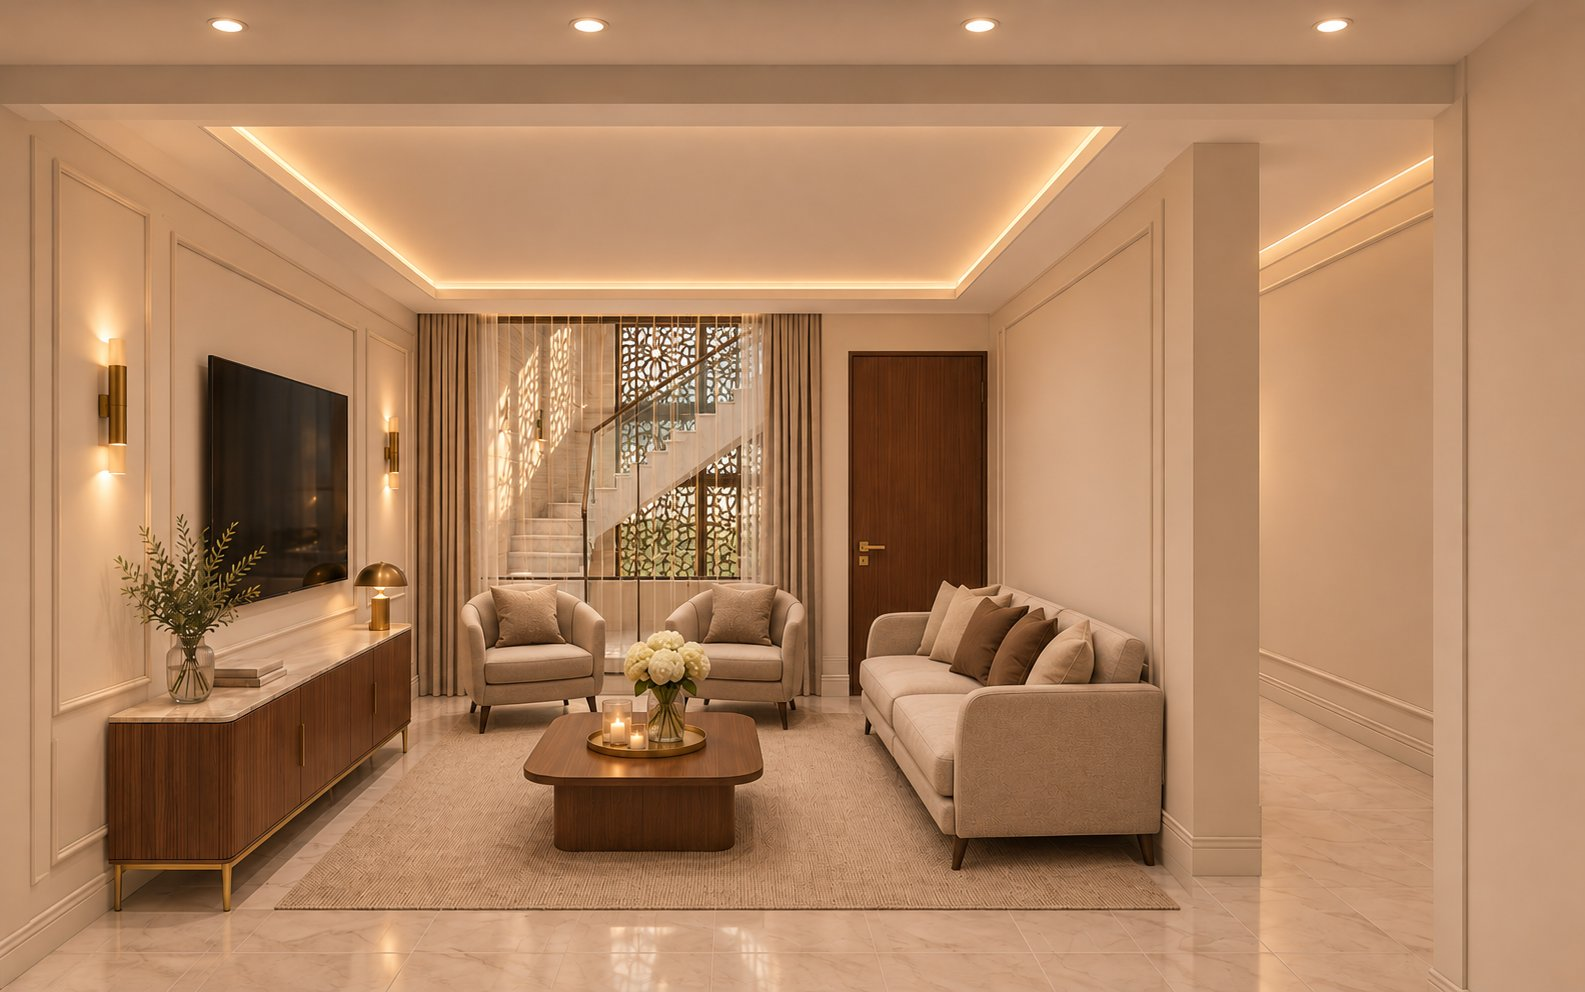
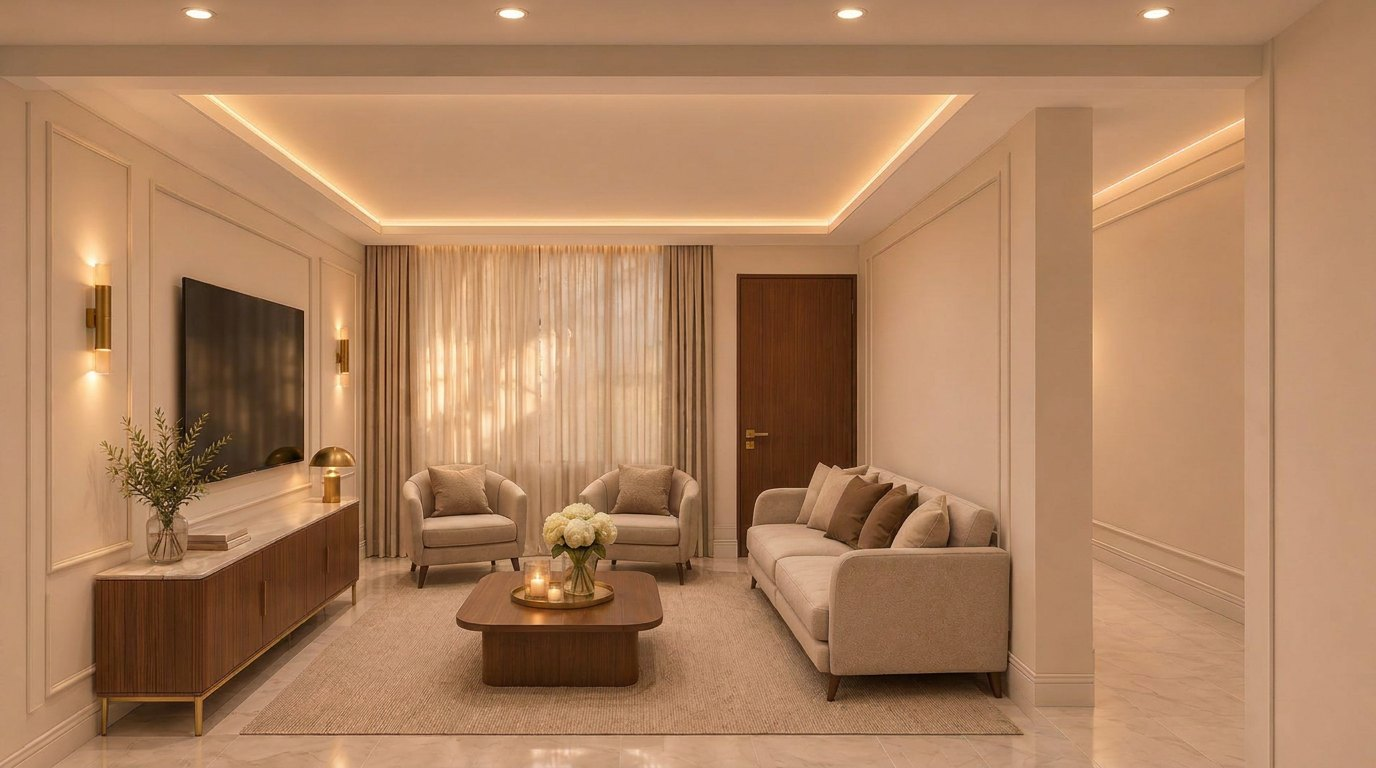
Karbala 5.70: render A with drawn curtains (no CNC lattice)

diff --git a/karbala-570/index.html b/karbala-570/index.html
@@ -272,7 +272,7 @@ function render(){
   <section id="model"><div class="wrap"><h2>${t.model_t}</h2><p class="sub">${t.model_s}</p>
     <div class="frame3d" id="f3d" style="background-image:url(${IMG}model3d.jpg)"><div class="start"><button class="btn" id="go3d">${t.load3d}</button></div></div>
     <div class="cta" style="margin-top:12px"><a class="btn ghost" href="model3d.html?lang=${L}">${t.full} ⤢</a></div></div></section>
-  <footer><div class="wrap">${t.foot} · v12</div></footer>`;
+  <footer><div class="wrap">${t.foot} · v13</div></footer>`;
   $('#sheet').innerHTML=`<div style="display:flex;justify-content:space-between;align-items:center;margin-bottom:6px"><b>${t.set}</b><button class="ib" data-close>${t.close}</button></div>
     <div class="srow"><span>${t.lang}</span><div class="seg">${Object.keys(TX).map(k=>`<button data-setlang="${k}" class="${k===L?'on':''}">${TX[k].name}</button>`).join('')}</div></div>
     <div class="srow"><span>${t.theme}</span><div class="seg"><button data-theme="dark" class="${theme==='dark'?'on':''}">${t.dark}</button><button data-theme="light" class="${theme==='light'?'on':''}">${t.light}</button></div></div>
